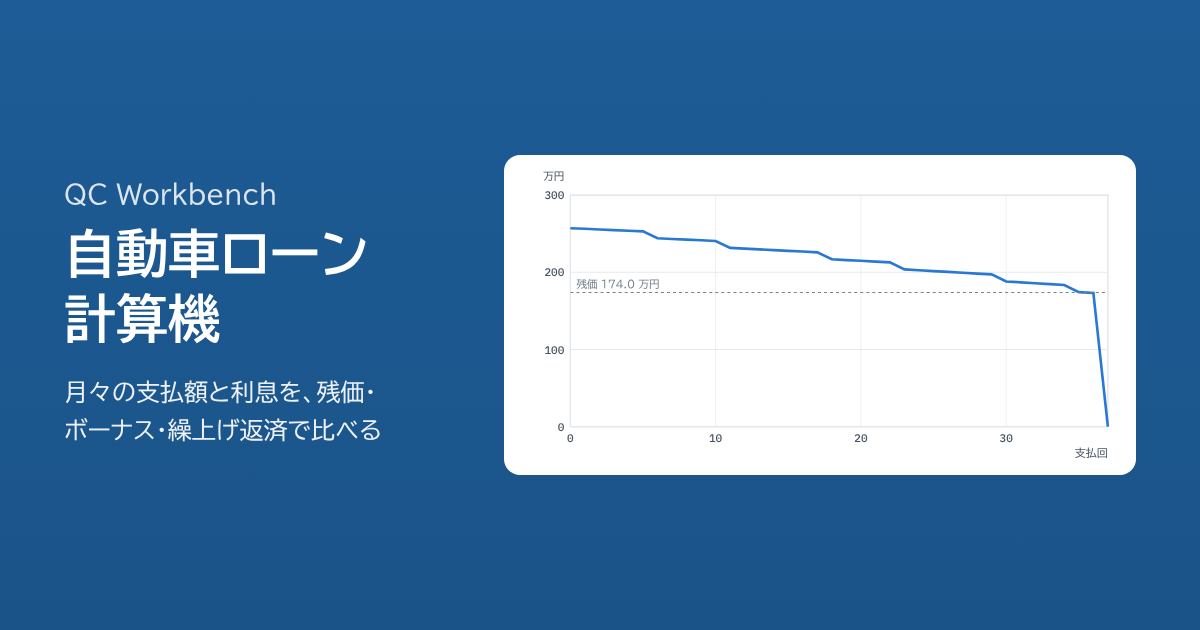
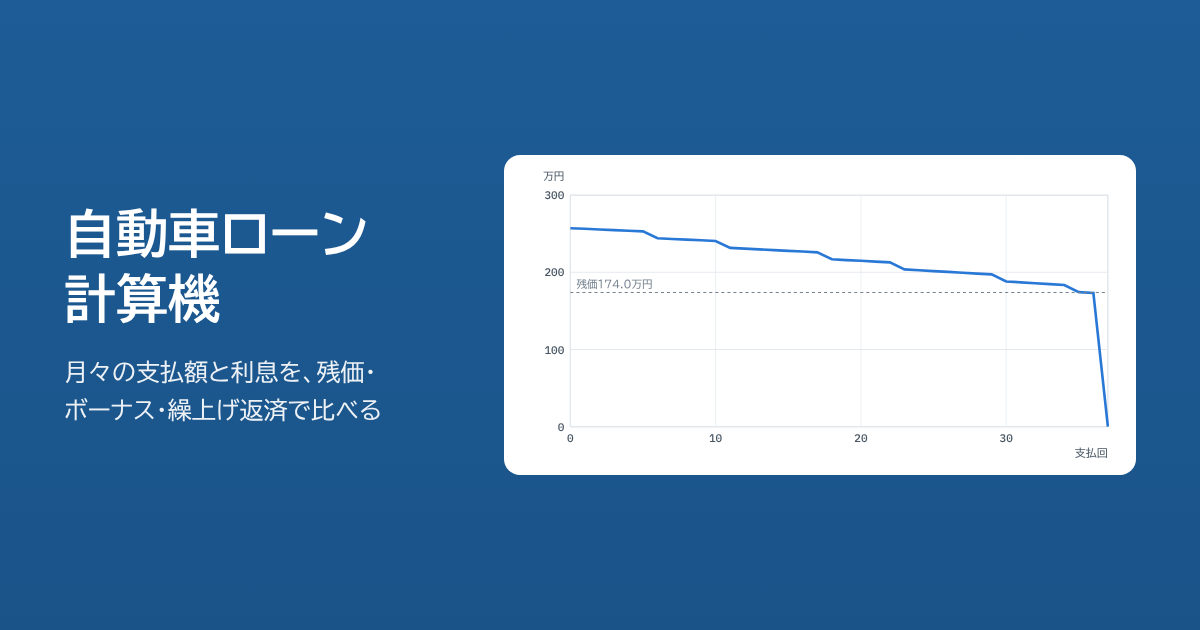
QC Workbench の表記を外す
画面上部の戻るリンク、og:site_name、og.png とスクリーンショットの「QC Workbench」を消す。sw.js の VERSION を上げる

Changed region(s): [[0.0308, 0.2714, 0.3083, 0.5429], [0.0308, 0.573, 0.3392, 0.7238], [0.4933, 0.4222, 0.555, 0.4524]]

diff --git a/index.html b/index.html
@@ -7,7 +7,6 @@
 <meta name="description" content="自動車ローンの毎月の返済額と利息を求める。残価設定（据置）、ボーナス併用、端数の調整、繰上げ返済（期間短縮・返済額軽減）、変動金利の上昇（5年ルール・125%ルール）、銀行・ディーラーの金利の比較にも対応">
 <link rel="canonical" href="https://kotaooka.github.io/car-loan-calc/">
 <meta property="og:type" content="website">
-<meta property="og:site_name" content="QC Workbench">
 <meta property="og:title" content="自動車ローン返済計算ツール｜残価設定・ボーナス・繰上げ返済">
 <meta property="og:description" content="自動車ローンの毎月の返済額と利息を求める。残価設定（据置）、ボーナス併用、端数の調整、繰上げ返済（期間短縮・返済額軽減）、変動金利の上昇（5年ルール・125%ルール）、銀行・ディーラーの金利の比較にも対応">
 <meta property="og:url" content="https://kotaooka.github.io/car-loan-calc/">
@@ -27,11 +26,11 @@
 <link rel="preconnect" href="https://fonts.gstatic.com" crossorigin>
 <link rel="stylesheet" href="https://fonts.googleapis.com/css2?family=BIZ+UDPGothic:wght@400;700&family=IBM+Plex+Mono:wght@500&display=swap">
 <script>
-  // 保存したテーマ（auto / light / dark）を描画前に当てる。キーは QC Workbench の全ツールで共通
+  // 保存したテーマ（auto / light / dark）を描画前に当てる。キーは kotaooka.github.io の各ツールで共通
   try { const t = localStorage.getItem("qc-workbench-theme"); if (t === "light" || t === "dark") document.documentElement.dataset.theme = t; } catch (e) { /* 保存できない環境 */ }
 </script>
 <style>
-/* 字体・配色は QC Workbench の各ツールと共通（DESIGN.md）。レイアウト：左に入力、右に図・結果。狭い画面では縦に積む */
+/* 字体・配色は kotaooka.github.io の各ツールと共通（DESIGN.md）。レイアウト：左に入力、右に図・結果。狭い画面では縦に積む */
 :root {
   --bg: #eef1f4;
   --surface: #ffffff;
@@ -74,9 +73,6 @@ header.top { position: sticky; top: 0; z-index: 5; background: var(--bg); border
 .brand { display: flex; align-items: baseline; gap: 12px; flex-wrap: wrap; }
 .brand h1 { font-size: 1.15rem; margin: 0; letter-spacing: .02em; }
 .brand .std { font-size: .78rem; color: var(--muted); }
-.brand .home { font-size: .78rem; color: var(--muted); text-decoration: none; margin-right: -6px; }
-.brand .home:hover { color: var(--accent); text-decoration: underline; }
-.brand .crumb { font-size: .78rem; color: var(--muted); margin-right: -6px; }
 .brand .theme { margin-left: auto; }
 nav.tabs { display: flex; gap: 4px; margin-top: 10px; overflow-x: auto; scrollbar-width: none; }
 nav.tabs::-webkit-scrollbar { display: none; }
@@ -246,7 +242,7 @@ details.opt .inner { display: flex; flex-direction: column; gap: 12px; }
 <header class="top">
   <div class="top-in">
     <div class="brand">
-      <a class="home" href="https://kotaooka.github.io/" title="QC Workbench（ツール一覧）へ戻る">QC Workbench</a><span class="crumb" aria-hidden="true">›</span><h1>自動車ローン計算機</h1>
+      <h1>自動車ローン計算機</h1>
       <span class="std">元利均等 / 残価設定 / 繰上げ返済</span>
       <button class="btn theme" id="themeBtn" type="button" aria-label="表示テーマを切り替え">表示：自動</button>
     </div>

diff --git a/js/app.js b/js/app.js
@@ -477,7 +477,7 @@
   $('rCopy').addEventListener('click', () => copyRows(rCopy));
   $('tCopy').addEventListener('click', () => copyRows(tCopy));
 
-  // ---- テーマ（QC Workbench の全ツールで共通のキー） ----
+  // ---- テーマ（kotaooka.github.io の各ツールで共通のキー） ----
   const THEMES = ['auto', 'light', 'dark'], THEME_LABEL = { auto: '表示：自動', light: '表示：ライト', dark: '表示：ダーク' }, THEME_KEY = 'qc-workbench-theme';
   const readTheme = () => { try { const t = localStorage.getItem(THEME_KEY); return THEMES.includes(t) ? t : 'auto'; } catch (e) { return 'auto'; } };
   let theme = readTheme();

diff --git a/sw.js b/sw.js
@@ -1,6 +1,6 @@
 // 自動車ローン計算機の Service Worker
 // 公開ファイルを更新したら VERSION を上げる。古いキャッシュは activate 時に削除される
-const VERSION = 'v1.2.1';
+const VERSION = 'v1.2.2';
 const APP_CACHE = `car-loan-calc-${VERSION}`;
 const FONT_CACHE = 'car-loan-calc-fonts';
 

diff --git a/tools/screenshots.py b/tools/screenshots.py
@@ -60,8 +60,8 @@ with sync_playwright() as p:
     route_fonts(o)
     o.set_content(f"""<html><head><link rel="stylesheet" href="https://fonts.googleapis.com/css2?family=BIZ+UDPGothic:wght@400;700&family=IBM+Plex+Mono:wght@500"></head>
       <body style="margin:0;width:1200px;height:630px;background:linear-gradient(#1d5c96,#1a5388);font-family:'BIZ UDPGothic';color:#fff;display:flex;align-items:center;gap:40px;padding:0 64px;box-sizing:border-box;{vars_css}">
-      <div style="flex:0 0 400px"><div style="font-size:26px;opacity:.85">QC Workbench</div>
-      <div style="font-size:52px;font-weight:700;line-height:1.25;margin:14px 0 22px">自動車ローン<br>計算機</div>
+      <div style="flex:0 0 400px">
+      <div style="font-size:52px;font-weight:700;line-height:1.25;margin:0 0 22px">自動車ローン<br>計算機</div>
       <div style="font-size:24px;line-height:1.6;opacity:.92">月々の支払額と利息を、残価・<br>ボーナス・繰上げ返済で比べる</div></div>
       <div style="flex:1;background:#fff;border-radius:16px;padding:14px">{svg}</div></body></html>""")
     o.wait_for_load_state('networkidle'); o.evaluate("document.fonts.ready"); o.wait_for_timeout(300)

diff --git a/DEVELOPMENT.md b/DEVELOPMENT.md
@@ -49,4 +49,4 @@ node tests/test.js    # 不一致があれば終了コード 1
 - **繰上げ返済**：毎月分の元金に充てます。期間短縮は、その時点の金利で月額のまま返し切る回を新しい最終回にし（あとで金利が変わって出し直すときも、この最終回まで）、返済額軽減は残りの回数で均等額を出し直します。据置があるときは計算しません
 - **逆算**：`maxPrincipal(o, target)` は、月額（元金均等は初回）が target 以下になる最大の借入額を、倍々で上限を見つけてから 2 分法で 1 円まで探します。月額がマイナスになる小さい借入額（ボーナス・残価だけで返しきる）は `negative` として目標より小さいとみなします
 - **入力の保存**：localStorage のキー `car-loan-calc-inputs`。読み書きはすべて try/catch で囲み、保存できない環境でも動きます
-- **テーマ**：QC Workbench の全ツールで共通のキー `qc-workbench-theme`
+- **テーマ**：kotaooka.github.io の各ツールで共通のキー `qc-workbench-theme`
